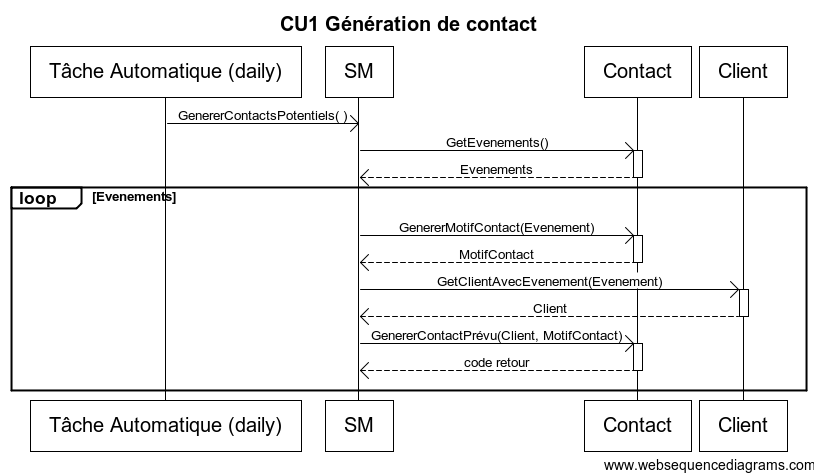
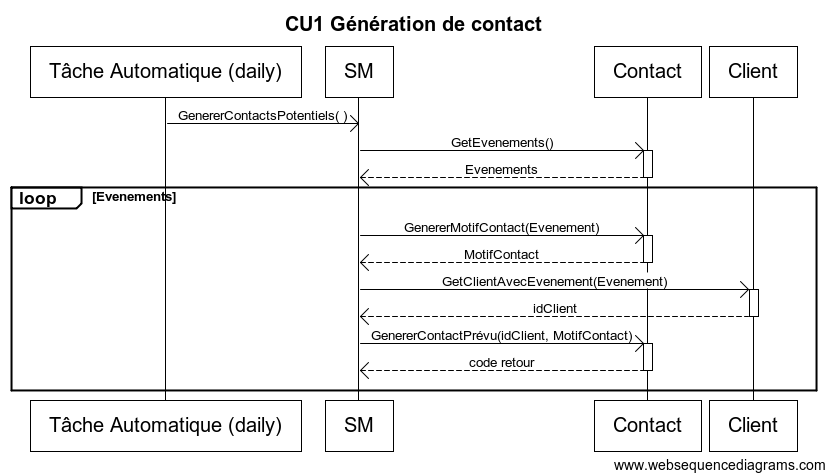
maj diagramme sequence

diff --git a/livrables/compte-rendu/conception-detaillee.tex b/livrables/compte-rendu/conception-detaillee.tex
@@ -55,3 +55,19 @@ TODO @xsauvagnat
 \subsection{Spécification des Services Objets Métier}
 
 TODO @xsauvagnat
+
+SOM 1 : getAllContacts
+\begin{itemize}
+\item Entrées : idAgence
+\item Sorties : liste de (contact, nom du client, adresse client)
+\item Entités/Classes : Client - Personne - Adresse - Contact
+\item Permet de recuperer tous les contacts non assignés à un agent. Pour cela, la fonction récupère tous les clients de l'agence et verifie si un contact est prévu. 
+\end{itemize}
+
+SOM 2 : genererContactPrevu
+\begin{itemize}
+\item Entrées : evenement
+\item Sorties : idClient
+\item Entités/Classes : Evenement - Client
+\item La fonction permet de récupérer l'id du client qui est à l'origine de l'évenement.
+\end{itemize}
